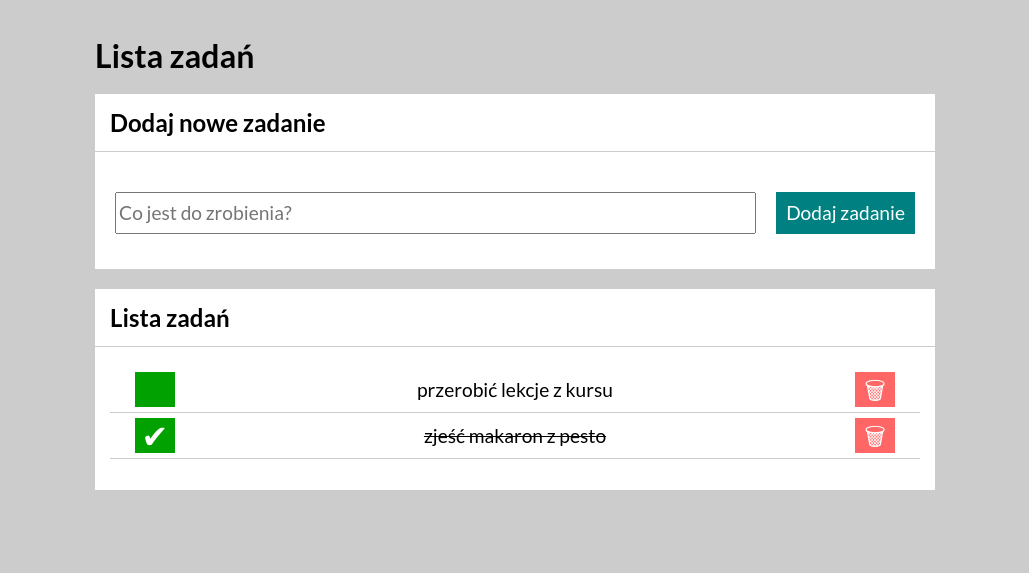
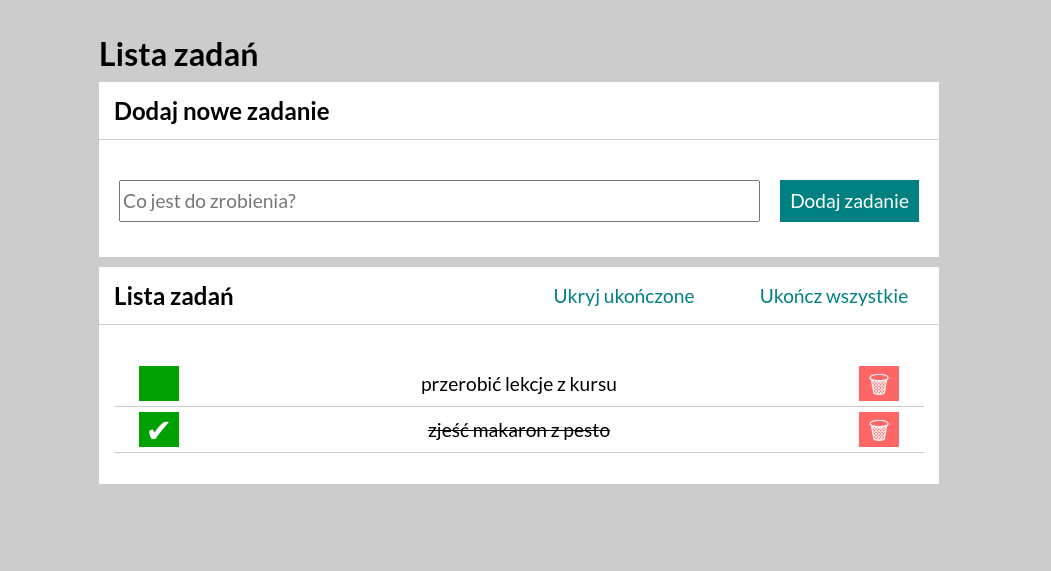
README update

Changed region(s): [[0.0933, 0.0595, 0.9329, 0.8634], [0.4043, 0.655, 0.5909, 0.7145], [0.1244, 0.6252, 0.1866, 0.655]]

diff --git a/README.md b/README.md
@@ -10,10 +10,11 @@ I just started so it's pretty simple so far, but im trying to do my best.
 
 Website is in polish language. 
 
-## Screenshot
+## Screenshots
 
 ![first screen](/images/screen1.png "first screen")
 
+![second screen](/images/screen2.png "second screen")
 
 ## Demo
 https://kacper218.github.io/to-do_list/
